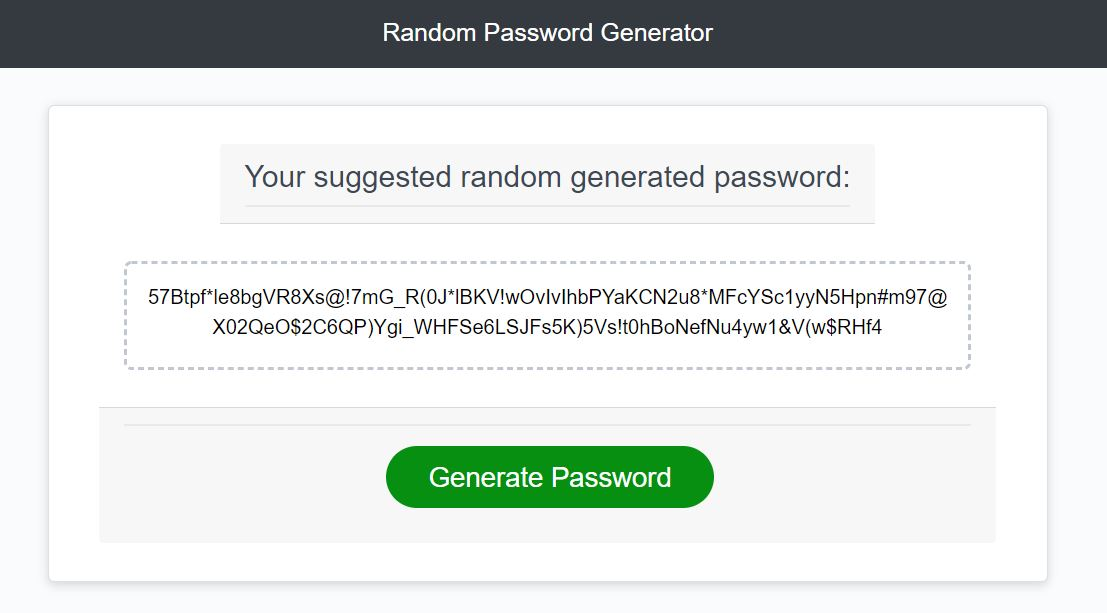
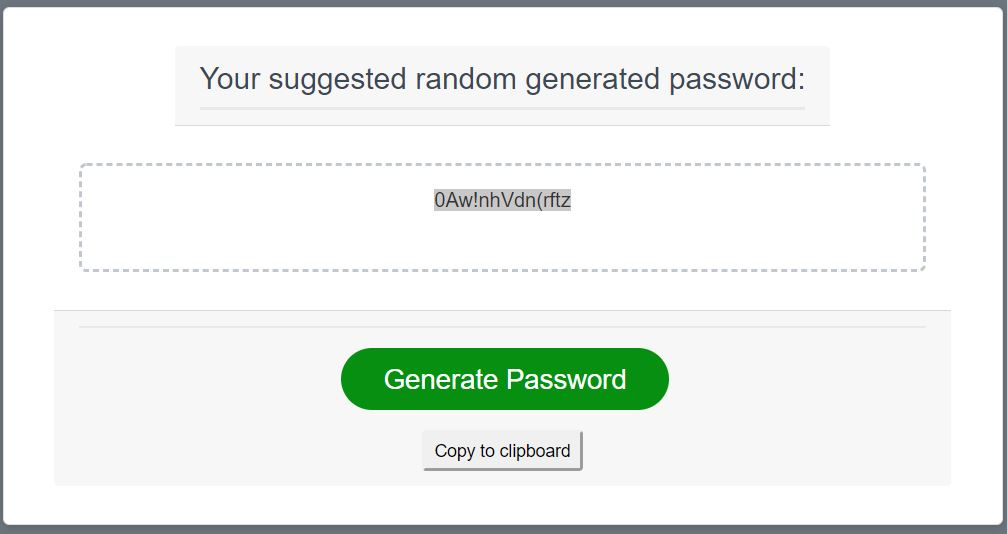
Added copy to clipboard and html layouts, colors

diff --git a/index.html b/index.html
@@ -6,15 +6,16 @@
   <meta name="viewport" content="width=device-width, initial-scale=1.0" />
   <meta http-equiv="X-UA-Compatible" content="ie=edge" />
   <title>Password Generator</title>
-  <link rel="stylesheet" href="https://stackpath.bootstrapcdn.com/bootstrap/4.5.0/css/bootstrap.min.css" integrity="sha384-9aIt2nRpC12Uk9gS9baDl411NQApFmC26EwAOH8WgZl5MYYxFfc+NcPb1dKGj7Sk" crossorigin="anonymous">
+  <link rel="stylesheet" href="https://stackpath.bootstrapcdn.com/bootstrap/4.5.0/css/bootstrap.min.css"
+    integrity="sha384-9aIt2nRpC12Uk9gS9baDl411NQApFmC26EwAOH8WgZl5MYYxFfc+NcPb1dKGj7Sk" crossorigin="anonymous">
   <link rel="stylesheet" href="assets/css/style.css" />
 </head>
 
 <body>
   <nav class="navbar navbar-dark bg-dark">
-    <a href="#" class="navbar-brand mx-auto">Random Password Generator</a>
+    <a href="#" class="navbar-brand mx-auto"><h2>Random Password Generator</h2></a>
   </nav>
-  
+
   <div class="wrapper border bg-secondary">
     <!-- <header>
       <h1>Password Generator</h1>
@@ -29,14 +30,25 @@
       <div class="card-footer">
         <button id="generate" class="btn">Generate Password</button>
         <br>
-        <!-- <button onclick="copyPassword()" id="copy" class="btn-sm">Copy to clipboard</div> -->
-      </div>
+        <button id="copy" class="btn-sm">Copy to clipboard</div>
+
     </div>
   </div>
+  </div>
+  <footer class="text-right m-2">
+    <p>Posted by: Michael Lee</p>
+  </footer>
+
   <script src="assets/javascript/scripts.js"></script>
-  <script src="https://code.jquery.com/jquery-3.2.1.slim.min.js" integrity="sha384-KJ3o2DKtIkvYIK3UENzmM7KCkRr/rE9/Qpg6aAZGJwFDMVNA/GpGFF93hXpG5KkN" crossorigin="anonymous"></script>
-<script src="https://cdnjs.cloudflare.com/ajax/libs/popper.js/1.12.9/umd/popper.min.js" integrity="sha384-ApNbgh9B+Y1QKtv3Rn7W3mgPxhU9K/ScQsAP7hUibX39j7fakFPskvXusvfa0b4Q" crossorigin="anonymous"></script>
-<script src="https://maxcdn.bootstrapcdn.com/bootstrap/4.0.0/js/bootstrap.min.js" integrity="sha384-JZR6Spejh4U02d8jOt6vLEHfe/JQGiRRSQQxSfFWpi1MquVdAyjUar5+76PVCmYl" crossorigin="anonymous"></script>
+  <script src="https://code.jquery.com/jquery-3.2.1.slim.min.js"
+    integrity="sha384-KJ3o2DKtIkvYIK3UENzmM7KCkRr/rE9/Qpg6aAZGJwFDMVNA/GpGFF93hXpG5KkN"
+    crossorigin="anonymous"></script>
+  <script src="https://cdnjs.cloudflare.com/ajax/libs/popper.js/1.12.9/umd/popper.min.js"
+    integrity="sha384-ApNbgh9B+Y1QKtv3Rn7W3mgPxhU9K/ScQsAP7hUibX39j7fakFPskvXusvfa0b4Q"
+    crossorigin="anonymous"></script>
+  <script src="https://maxcdn.bootstrapcdn.com/bootstrap/4.0.0/js/bootstrap.min.js"
+    integrity="sha384-JZR6Spejh4U02d8jOt6vLEHfe/JQGiRRSQQxSfFWpi1MquVdAyjUar5+76PVCmYl"
+    crossorigin="anonymous"></script>
 
 </body>
 

diff --git a/assets/javascript/scripts.js b/assets/javascript/scripts.js
@@ -1,5 +1,6 @@
-// Assignment Code to associate the generate id with the button
-var generateButton = document.querySelector("#generate");
+// Assignment Codeto associate the generate id with the button
+var generateButton = document.querySelector("#generate").addEventListener("click", publishPassword);
+
 
 // function to publish password from function generatePassword
 function publishPassword() {
@@ -34,13 +35,13 @@ function generatePassword() {
     // THEN my input should be validated and at least one character type should be selected
     while (confirmLowers === false && confirmUppers === false && confirmNumerics === false && confirmSpecials === false) {
         alert("Must choose at lease one parameter");
-        var confirmLowers = confirm("Click OK to include lower case characters in password.");
-        var confirmUppers = confirm("Click OK to include upper case characters in password.");
-        var confirmNumerics = confirm("Click OK to include numerical characters in password.");
-        var confirmSpecials = confirm("Click OK to include special characters in password.");
+        confirmLowers = confirm("Click OK to include lower case characters in password.");
+        confirmUppers = confirm("Click OK to include upper case characters in password.");
+        confirmNumerics = confirm("Click OK to include numerical characters in password.");
+        confirmSpecials = confirm("Click OK to include special characters in password.");
     }
 
-    // build password string depending on user input
+    // build password string depending on user input-
     var passwordStr = '';
 
     if (confirmLowers == true) {
@@ -75,6 +76,13 @@ function generatePassword() {
     // document.getElementById("password").value = finalPassword;
 }
 
-// Add event listener to generate button
-generateButton.addEventListener("click", publishPassword);
+// copy password to clipboard function 
+function copyPassword() {
+    var copyText = document.querySelector("#password");
+    copyText.select();
+    document.execCommand("copy");
+    alert("Copied password to Clipboard:  " + copyText.value);
+}
+
+var copyButton = document.querySelector("#copy").addEventListener("click", copyPassword);
 

diff --git a/README.md b/README.md
@@ -4,7 +4,9 @@ This application generates a random password based on below user-selected criter
 * length of at least 8 characters and no more than 128 characters
 * lowercase, uppercase, numeric, and/or special characters
 
-. This app will run in the browser and feature dynamically updated HTML and CSS powered by your JavaScript code. It will also feature a clean and polished user interface and be responsive, ensuring that it adapts to multiple screen sizes.
+. This app will run in the browser and feature dynamically updated HTML and CSS powered by your JavaScript code. It also feature a clean, polished, and responsive user interface that it adapts to multiple screen sizes.
 
+When the user clicks the button "Generate Password" they are first promp for password length of range of 8 to 128 characters.  There's a while loop that checks and required the password length between 8 to 128 characters. The app will then prompt the user to include numbers, characters, uppercase and/or lowercase letters. There's a check with while loop that checks for no selection of criteria, the program will ask it to select at least each one and will loop back through the prompts.
+When all parameters have been satisfied, the password will appear within the password box.  There is a copy to clipboard button if they want to copy the password.
 
 ![AppScreenshot](assets/images/passwordApp.JPG)
